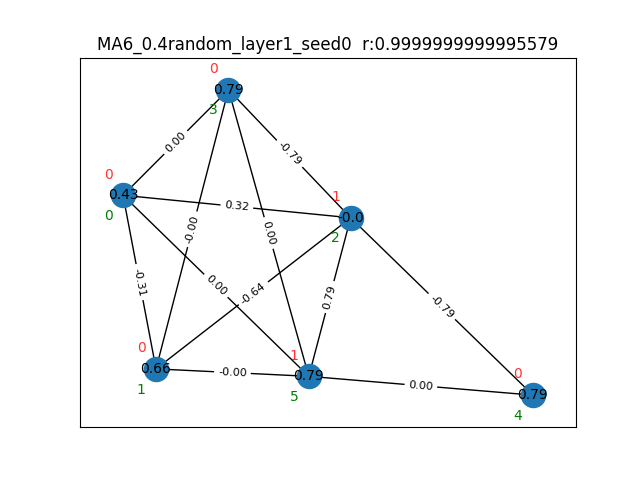
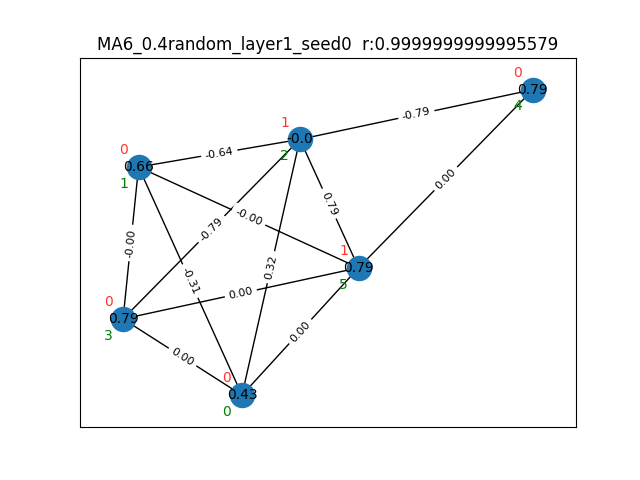
modified:   manual_input.py

diff --git a/manual_input.py b/manual_input.py
@@ -1,0 +1,82 @@
+import networkx as nx
+from src_code import build_operators
+from src_code import useful_methods
+from src_code import generate_graphs
+from scipy.optimize import minimize
+import numpy as np
+import matplotlib.pyplot as plt
+import time
+
+a = 0.7854
+b = -0.7854
+    
+# no_vertices = 6
+# depth = 1
+# seed = 7
+# graph_type = ['random', 0.4]
+# save = True
+# graph = generate_graphs.generate_graph_type(no_vertices, graph_type, seed)[0]
+# parameter_list = [a,0,b,b,b,b] + [0,a,0,a,0,0]
+
+no_vertices = 3
+depth = 1
+seed = 7
+graph_type = ['random', 0]
+save = True
+graph = generate_graphs.generate_graph_type(no_vertices, graph_type, seed)[0]
+parameter_list = [b,0,b] + [a,0,a]
+
+
+#! input parameters manually
+
+no_edges = graph.number_of_edges()
+pauli_ops_dict = build_operators.build_my_paulis(no_vertices) 
+hamiltonian = build_operators.cut_hamiltonian(graph)
+
+max_cut_solution = useful_methods.find_optimal_cut(graph)
+print(f"max cut: {max_cut_solution[0]}")
+max_cut_value = max_cut_solution[1]
+max_ham_eigenvalue = max_cut_solution[2]
+#! 初始化完成
+
+#! 输出结果
+dens_mat = build_operators.build_MA_qaoa_ansatz(graph, parameter_list, depth, pauli_ops_dict, 'All')
+hamiltonian_expectation = (hamiltonian * dens_mat).trace().real
+cut_approx_ratio = (hamiltonian_expectation + max_cut_value - max_ham_eigenvalue) / max_cut_value
+
+print(f'layers:{depth} MA-All')
+print('***************')
+print(f'cut_approx_ratio: {cut_approx_ratio}')
+
+for layer in range(depth):
+    print('-----------------------------------------------')
+    print(f'layer {layer + 1:}')
+    my_dict = {key: value for key, value in zip(graph.edges, parameter_list[layer * no_edges : (layer + 1) * no_edges])} # gamma for every edge
+    for key, value in my_dict.items():
+        print(f"{key}: {value:.4f}")
+    print(f'beta: {[round(num, 4) for num in parameter_list[depth * no_edges + layer * no_vertices:depth * no_edges + (layer + 1) * no_vertices]]}')
+
+    if(save):
+        for key, value in my_dict.items():
+            my_dict[key] = format(my_dict[key], '.2f')
+
+        plt.clf()
+        l_dict = {}
+        for n in range(no_vertices):
+            l_dict[n] = round(parameter_list[depth * no_edges + layer * no_vertices + n] ,2)
+        pos = nx.spring_layout(graph)
+        nx.draw_networkx_nodes(graph, pos)
+        nx.draw_networkx_edges(graph, pos)
+        nx.draw_networkx_edge_labels(graph, pos, my_dict, font_size=8) #每条边的gamma
+        nx.draw_networkx_labels(graph, pos, l_dict, font_size=10) #每个点的beta
+        for i in range(no_vertices):
+            pos[i] += np.array([-0.06, 0.06]) 
+        nx.draw_networkx_labels(graph, pos, {key:value for key, value in zip(range(no_vertices), max_cut_solution[0])}, font_color= "r", alpha=0.8,font_size=10)
+        for i in range(no_vertices):
+            pos[i] += np.array([0.0, -0.12]) 
+        nx.draw_networkx_labels(graph, pos, font_color="g", font_size=10)
+
+        plt.title(f'MA{no_vertices}_{graph_type[1]}{graph_type[0]}_layer{depth}_seed{seed}  r:{cut_approx_ratio}')
+        plt.savefig(f"./results/manual_input{time.time()}.png")
+
+print('-----------------------------------------------')

diff --git a/test.py b/test.py
@@ -1,21 +1,16 @@
-from qiskit.algorithms.minimum_eigensolvers import QAOA
-from qiskit.algorithms.optimizers import COBYLA
-from qiskit.quantum_info import SparsePauliOp
-from qiskit.primitives import Sampler
-from qiskit_aer.primitives import Sampler as AerSampler
- 
-# exact statevector simulation
-sampler = Sampler()
- 
-# another option
-sampler = AerSampler(backend_options={"method": "statevector"},
-                        run_options={"shots": None, "seed": 42})
- 
-optimizer = COBYLA()
-qaoa = QAOA(sampler, optimizer, reps=2)
- 
-# diagonal operator
-qubit_op = SparsePauliOp.from_list([("ZIII", 1),("IZII", 1), ("IIIZ", 1), ("IIZI", 1)])
-result = qaoa.compute_minimum_eigenvalue(qubit_op)
- 
-print(result.eigenvalue)
+from src_code import generate_graphs
+import matplotlib.pyplot as plt
+import networkx as nx
+
+# graph = generate_graphs.generate_graph_type(3,['random',0.4], 7)[0]
+
+graph = nx.Graph()
+edge_list = [(0,1), (1,2), (2,3)]
+
+graph.add_edges_from(edge_list)
+for index, edge in enumerate(graph.edges()):
+    graph.get_edge_data(*edge)['weight'] = 1
+
+nx.draw_networkx(graph)
+
+plt.show()

diff --git a/main.py b/main.py
@@ -1,15 +1,15 @@
 import MA_QAOA_All
 
-n = 8
+n = 6
 layer = 1
-seed = 0
-graph_type = ['random', 0.6]
+seed = 7
+graph_type = ['random', 0.4]
 # graph_type = ['regular', 3]
 save = True
 
-# MA_QAOA_All.MA_All(n, 1, seed, graph_type, save)
+MA_QAOA_All.MA_All(n, 1, seed, graph_type, save)
 
-for seed in range(10):
-    print('#')
-    MA_QAOA_All.MA_All(n, layer, seed, graph_type, save)
+# for seed in range(10):
+#     print('#')
+#     MA_QAOA_All.MA_All(n, layer, seed, graph_type, save)
 
